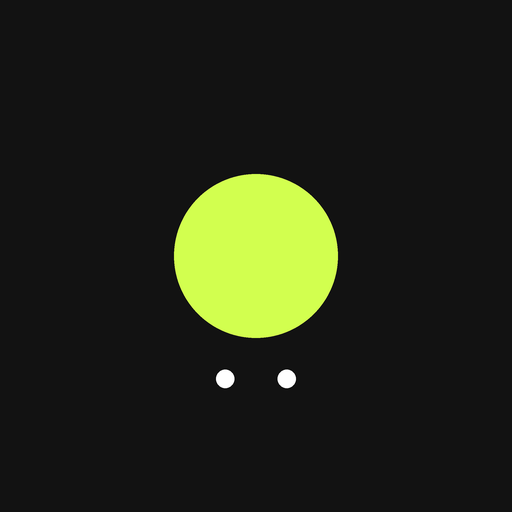
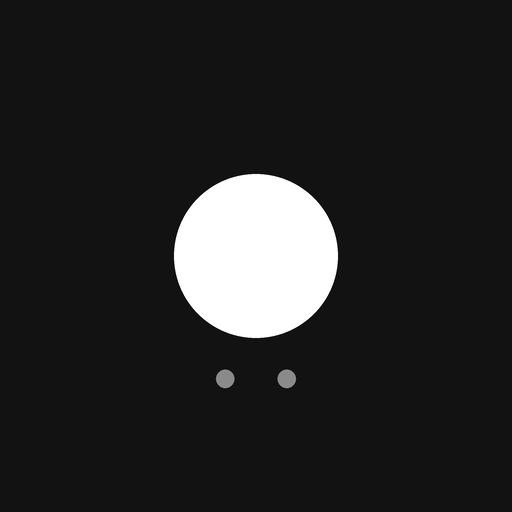
Switch to black and white; timed habits only count when the timer finishes

Changed region(s): [[0.3125, 0.3125, 0.6875, 0.6875], [0.5312, 0.7188, 0.5938, 0.7812], [0.4062, 0.7188, 0.4688, 0.7812]]

diff --git a/public/styles.css b/public/styles.css
@@ -1,6 +1,7 @@
 :root {
-  --lime: #D2FF4F;
-  --cream: #F1FCC4;
+  --accent: #121212;
+  --on-accent: #FFFFFF;
+  --cream: #F7F7F5;
   --ink: #121212;
   --ink-2: #1E1E1E;
   --ink-3: #2B2B2B;
@@ -27,7 +28,7 @@ button { cursor: pointer; background: none; border: 0; }
 [hidden] { display: none !important; }
 
 /* ---------- themes ---------- */
-body.t-dark  { --bg: var(--ink);   color: var(--white); }
+body.t-dark  { --bg: var(--ink);   color: var(--white); --accent: #FFFFFF; --on-accent: #121212; }
 body.t-cream { --bg: var(--cream); }
 body.t-gray  { --bg: var(--gray); }
 body.t-white { --bg: var(--white); }
@@ -65,7 +66,7 @@ body.t-grid  {
 .ghost { color: #8E8E8E; }
 .small { font-size: 13px; line-height: 1.5; }
 .tiny { font-size: 11px; color: var(--muted); }
-.lime-text { color: var(--lime); }
+.lime-text { color: var(--accent); }
 .num { font-variant-numeric: tabular-nums; }
 
 /* ---------- buttons ---------- */
@@ -76,11 +77,11 @@ body.t-grid  {
 }
 .btn:active { transform: scale(.98); }
 .btn:disabled { opacity: .35; pointer-events: none; }
-.btn-lime { background: var(--lime); color: var(--ink); }
+.btn-lime { background: var(--accent); color: var(--on-accent); }
 .btn-ink { background: var(--ink); color: var(--white); }
-.btn-ink.lime-text { color: var(--lime); }
+.btn-ink.lime-text { color: var(--white); }
 .btn-outline { border: 1.5px solid currentColor; }
-.btn-outline-lime { border: 1.5px solid var(--lime); color: var(--lime); }
+.btn-outline-lime { border: 1.5px solid var(--white); color: var(--white); }
 .btn-narrow { width: auto; min-width: 180px; margin: 0 auto; }
 .link { display: block; margin: 14px auto 0; font-size: 10px; letter-spacing: .2em; text-transform: uppercase; color: var(--muted); }
 
@@ -108,8 +109,8 @@ body.t-grid  {
 
 .soft-card {
   padding: 18px; border-radius: 22px;
-  background: linear-gradient(160deg, #F7FFD9, #D9EFA0);
-  box-shadow: 0 24px 40px -18px rgba(70, 90, 0, .35), inset 0 1px 0 rgba(255,255,255,.6);
+  background: linear-gradient(160deg, #FFFFFF, #E6E6E6);
+  box-shadow: 0 24px 40px -18px rgba(0, 0, 0, .3), inset 0 1px 0 rgba(255,255,255,.8);
 }
 .field {
   width: 100%; padding: 12px 16px; border-radius: 999px; border: 0; outline: 0;
@@ -121,31 +122,31 @@ body.t-grid  {
 
 .chips { display: flex; flex-direction: column; align-items: center; gap: 10px; }
 .chip {
-  width: 72%; padding: 11px; border-radius: 999px; background: #FAFFE8;
+  width: 72%; padding: 11px; border-radius: 999px; background: var(--white);
   font-size: 10px; font-weight: 600; letter-spacing: .2em; text-transform: uppercase;
-  box-shadow: 0 6px 14px -8px rgba(70, 90, 0, .4);
+  box-shadow: 0 6px 14px -8px rgba(0, 0, 0, .35);
   transition: background .15s, color .15s;
 }
-.chip[aria-pressed="true"] { background: var(--ink); color: var(--lime); }
+.chip[aria-pressed="true"] { background: var(--ink); color: var(--white); }
 
 .habit-input { display: flex; align-items: center; gap: 8px; background: var(--white); border-radius: 999px; padding: 4px 6px 4px 14px; }
 .habit-input b { font-size: 12px; }
 .habit-input input { flex: 1; border: 0; outline: 0; background: none; font-size: 13px; padding: 7px 0; }
 .habit-input button { width: 26px; height: 26px; border-radius: 50%; color: var(--muted); }
 .templates { display: flex; flex-wrap: wrap; gap: 6px; }
-.templates button { padding: 7px 12px; border-radius: 999px; background: rgba(255,255,255,.6); font-size: 12px; }
+.templates button { padding: 7px 12px; border-radius: 999px; background: var(--white); font-size: 12px; }
 
 .time-row {
   display: flex; align-items: center; justify-content: space-between;
-  padding: 14px 16px; border-radius: 16px; background: #FAFFE8;
-  box-shadow: 0 10px 20px -14px rgba(70, 90, 0, .5);
+  padding: 14px 16px; border-radius: 16px; background: var(--white);
+  box-shadow: 0 10px 20px -14px rgba(0, 0, 0, .45);
 }
 .time-row input[type=time] { border: 0; border-radius: 8px; background: var(--gray); padding: 4px 8px; font-size: 12px; font-weight: 600; }
 
 .check-orb {
   width: 108px; height: 108px; border-radius: 50%; display: grid; place-items: center;
-  background: linear-gradient(160deg, #FAFFE5, #DDF2A6);
-  box-shadow: 0 24px 40px -16px rgba(70, 90, 0, .45);
+  background: linear-gradient(160deg, #FFFFFF, #E2E2E2);
+  box-shadow: 0 24px 40px -16px rgba(0, 0, 0, .35);
 }
 
 /* ---------- home ---------- */
@@ -160,7 +161,8 @@ body.t-grid  {
 }
 .habit-row .go { margin-left: auto; font-size: 9px; letter-spacing: .2em; color: #9A9A9A; }
 .ring { width: 20px; height: 20px; border-radius: 50%; border: 1.5px solid #777; flex: none; display: grid; place-items: center; }
-.ring.done { background: var(--lime); border-color: var(--lime); color: var(--ink); }
+.ring.done { background: var(--white); border-color: var(--white); color: var(--ink); }
+.done-sheet .ring.done { background: var(--ink); border-color: var(--ink); color: var(--white); }
 .ring svg { width: 11px; height: 11px; }
 .habit-row.is-done .name { color: #9A9A9A; text-decoration: line-through; }
 .notes-row {
@@ -186,8 +188,8 @@ body.t-grid  {
 /* ---------- session ---------- */
 .session-title { font-size: 16px; font-weight: 800; letter-spacing: .14em; text-transform: uppercase; padding-bottom: 8px; border-bottom: 1px solid var(--line); display: inline-block; }
 .clock { font-size: clamp(76px, 25vw, 104px); font-weight: 800; letter-spacing: -.04em; line-height: 1; font-variant-numeric: tabular-nums; }
-.bar { height: 6px; border-radius: 999px; background: var(--ink); overflow: hidden; }
-.bar > i { display: block; height: 100%; background: var(--lime); border-right: 1px solid var(--ink); border-radius: 999px; transition: width .3s linear; }
+.bar { height: 6px; border-radius: 999px; background: var(--gray); overflow: hidden; }
+.bar > i { display: block; height: 100%; background: var(--ink); border-radius: 999px; transition: width .3s linear; }
 .btn-pair { display: grid; grid-template-columns: 1fr 1fr; gap: 10px; }
 .btn-pair .btn { font-size: 10px; padding: 14px 10px; }
 .btn-soft { border: 1px solid var(--line); }
@@ -214,10 +216,10 @@ body.t-grid  {
 .meter .row { font-size: 11px; letter-spacing: .14em; text-transform: uppercase; color: #9A9A9A; margin-bottom: 7px; }
 .meter b { color: var(--white); font-weight: 600; letter-spacing: 0; }
 .meter .track { height: 7px; border-radius: 999px; background: #1C1C1C; overflow: hidden; }
-.meter .track i { display: block; height: 100%; border-radius: 999px; background: var(--lime); }
+.meter .track i { display: block; height: 100%; border-radius: 999px; background: var(--white); }
 .meter .track i.low { background: #5A5A5A; }
 .insight { padding: 16px 18px; border-radius: 12px; background: var(--ink-3); font-size: 13px; line-height: 1.55; }
-.insight p { border-left: 2px solid var(--lime); padding-left: 12px; }
+.insight p { border-left: 2px solid var(--white); padding-left: 12px; }
 
 /* receipt-style session log */
 .receipt { font-family: var(--mono); font-size: 11px; background: #F4F4F0; color: var(--ink); border-radius: 6px; padding: 18px 16px; }

diff --git a/public/app.js b/public/app.js
@@ -293,6 +293,7 @@ const screens = {
         on('[data-toggle]', 'click', async e => {
           const h = S.habits.find(x => x.id == e.currentTarget.dataset.toggle);
           if (isDone(h)) await api('/completions', 'DELETE', { habit_id: h.id, day: today() });
+          else if (h.minutes) return startHabit(h);
           else await api('/completions', 'POST', { habit_id: h.id, day: today(), seconds: 0, hour: new Date().getHours() });
           await refresh();
           render();
@@ -346,14 +347,14 @@ const screens = {
           <div class="bar mt" style="width:100%"><i id="bar" style="width:${(elapsed() / goal) * 100}%"></i></div>
           <p class="tiny mt-s" id="hint"></p>
         </div>
-        <div class="btn-pair"><button class="btn btn-outline" id="toggle"></button><button class="btn btn-soft" id="finish">Mark complete</button></div>`,
+        <button class="btn btn-outline" id="toggle"></button>`,
       mount: () => {
         const sync = () => {
           const e = elapsed();
           $('#clock').textContent = fmt(goal - e);
           $('#bar').style.width = (e / goal) * 100 + '%';
           $('#toggle').textContent = t.startedAt ? 'Pause' : e ? 'Resume' : 'Start';
-          $('#hint').textContent = t.startedAt ? 'Stay with it.' : `Tap ${e ? 'Resume' : 'Start'} to ${e ? 'continue' : 'start'} your session`;
+          $('#hint').textContent = t.startedAt ? 'It checks off when the timer runs out.' : `Tap ${e ? 'Resume' : 'Start'} to ${e ? 'continue' : 'start'} your session`;
           if (e >= goal) finish();
         };
         const finish = async () => {
@@ -366,7 +367,6 @@ const screens = {
           store.set(key, t);
           sync();
         });
-        on('#finish', 'click', finish);
         timers.push(setInterval(sync, 500));
         sync();
       },
@@ -533,4 +533,8 @@ setInterval(checkReminders, 30_000);
 
 await refresh();
 render();
-if ('serviceWorker' in navigator) navigator.serviceWorker.register('sw.js').catch(() => {});
+if ('serviceWorker' in navigator) {
+  const hadController = !!navigator.serviceWorker.controller;
+  navigator.serviceWorker.addEventListener('controllerchange', () => { if (hadController) location.reload(); });
+  navigator.serviceWorker.register('sw.js').catch(() => {});
+}

diff --git a/public/data.js b/public/data.js
@@ -124,12 +124,15 @@ const routes = {
 
   'POST /completions': ({ body }) => {
     need(DAY_RE.test(body.day ?? ''), 'day must be YYYY-MM-DD');
-    need(db.habits.some(h => h.id === body.habit_id), 'unknown habit');
+    const habit = db.habits.find(h => h.id === body.habit_id);
+    need(habit, 'unknown habit');
     const row = {
       habit_id: body.habit_id, day: body.day,
       seconds: Math.max(0, Math.round(Number(body.seconds) || 0)),
       hour: Number.isInteger(body.hour) && body.hour >= 0 && body.hour < 24 ? body.hour : null,
     };
+    // Timed habits only count once the full timer has run.
+    need(!habit.minutes || row.seconds >= habit.minutes * 60, 'Finish the timer to check this off');
     db.completions = db.completions.filter(c => !(c.habit_id === row.habit_id && c.day === row.day));
     db.completions.push(row);
     save();

diff --git a/public/sw.js b/public/sw.js
@@ -1,6 +1,6 @@
 // Offline support: serve the app from cache, refresh the cache in the background.
 // Bump VERSION when shipping changes so old files get cleared.
-const VERSION = 'striide-v1';
+const VERSION = 'striide-v2';
 const FILES = ['./', 'index.html', 'styles.css', 'app.js', 'data.js', 'manifest.webmanifest', 'icon-192.png', 'icon-512.png', 'apple-touch-icon.png'];
 
 self.addEventListener('install', e => {
